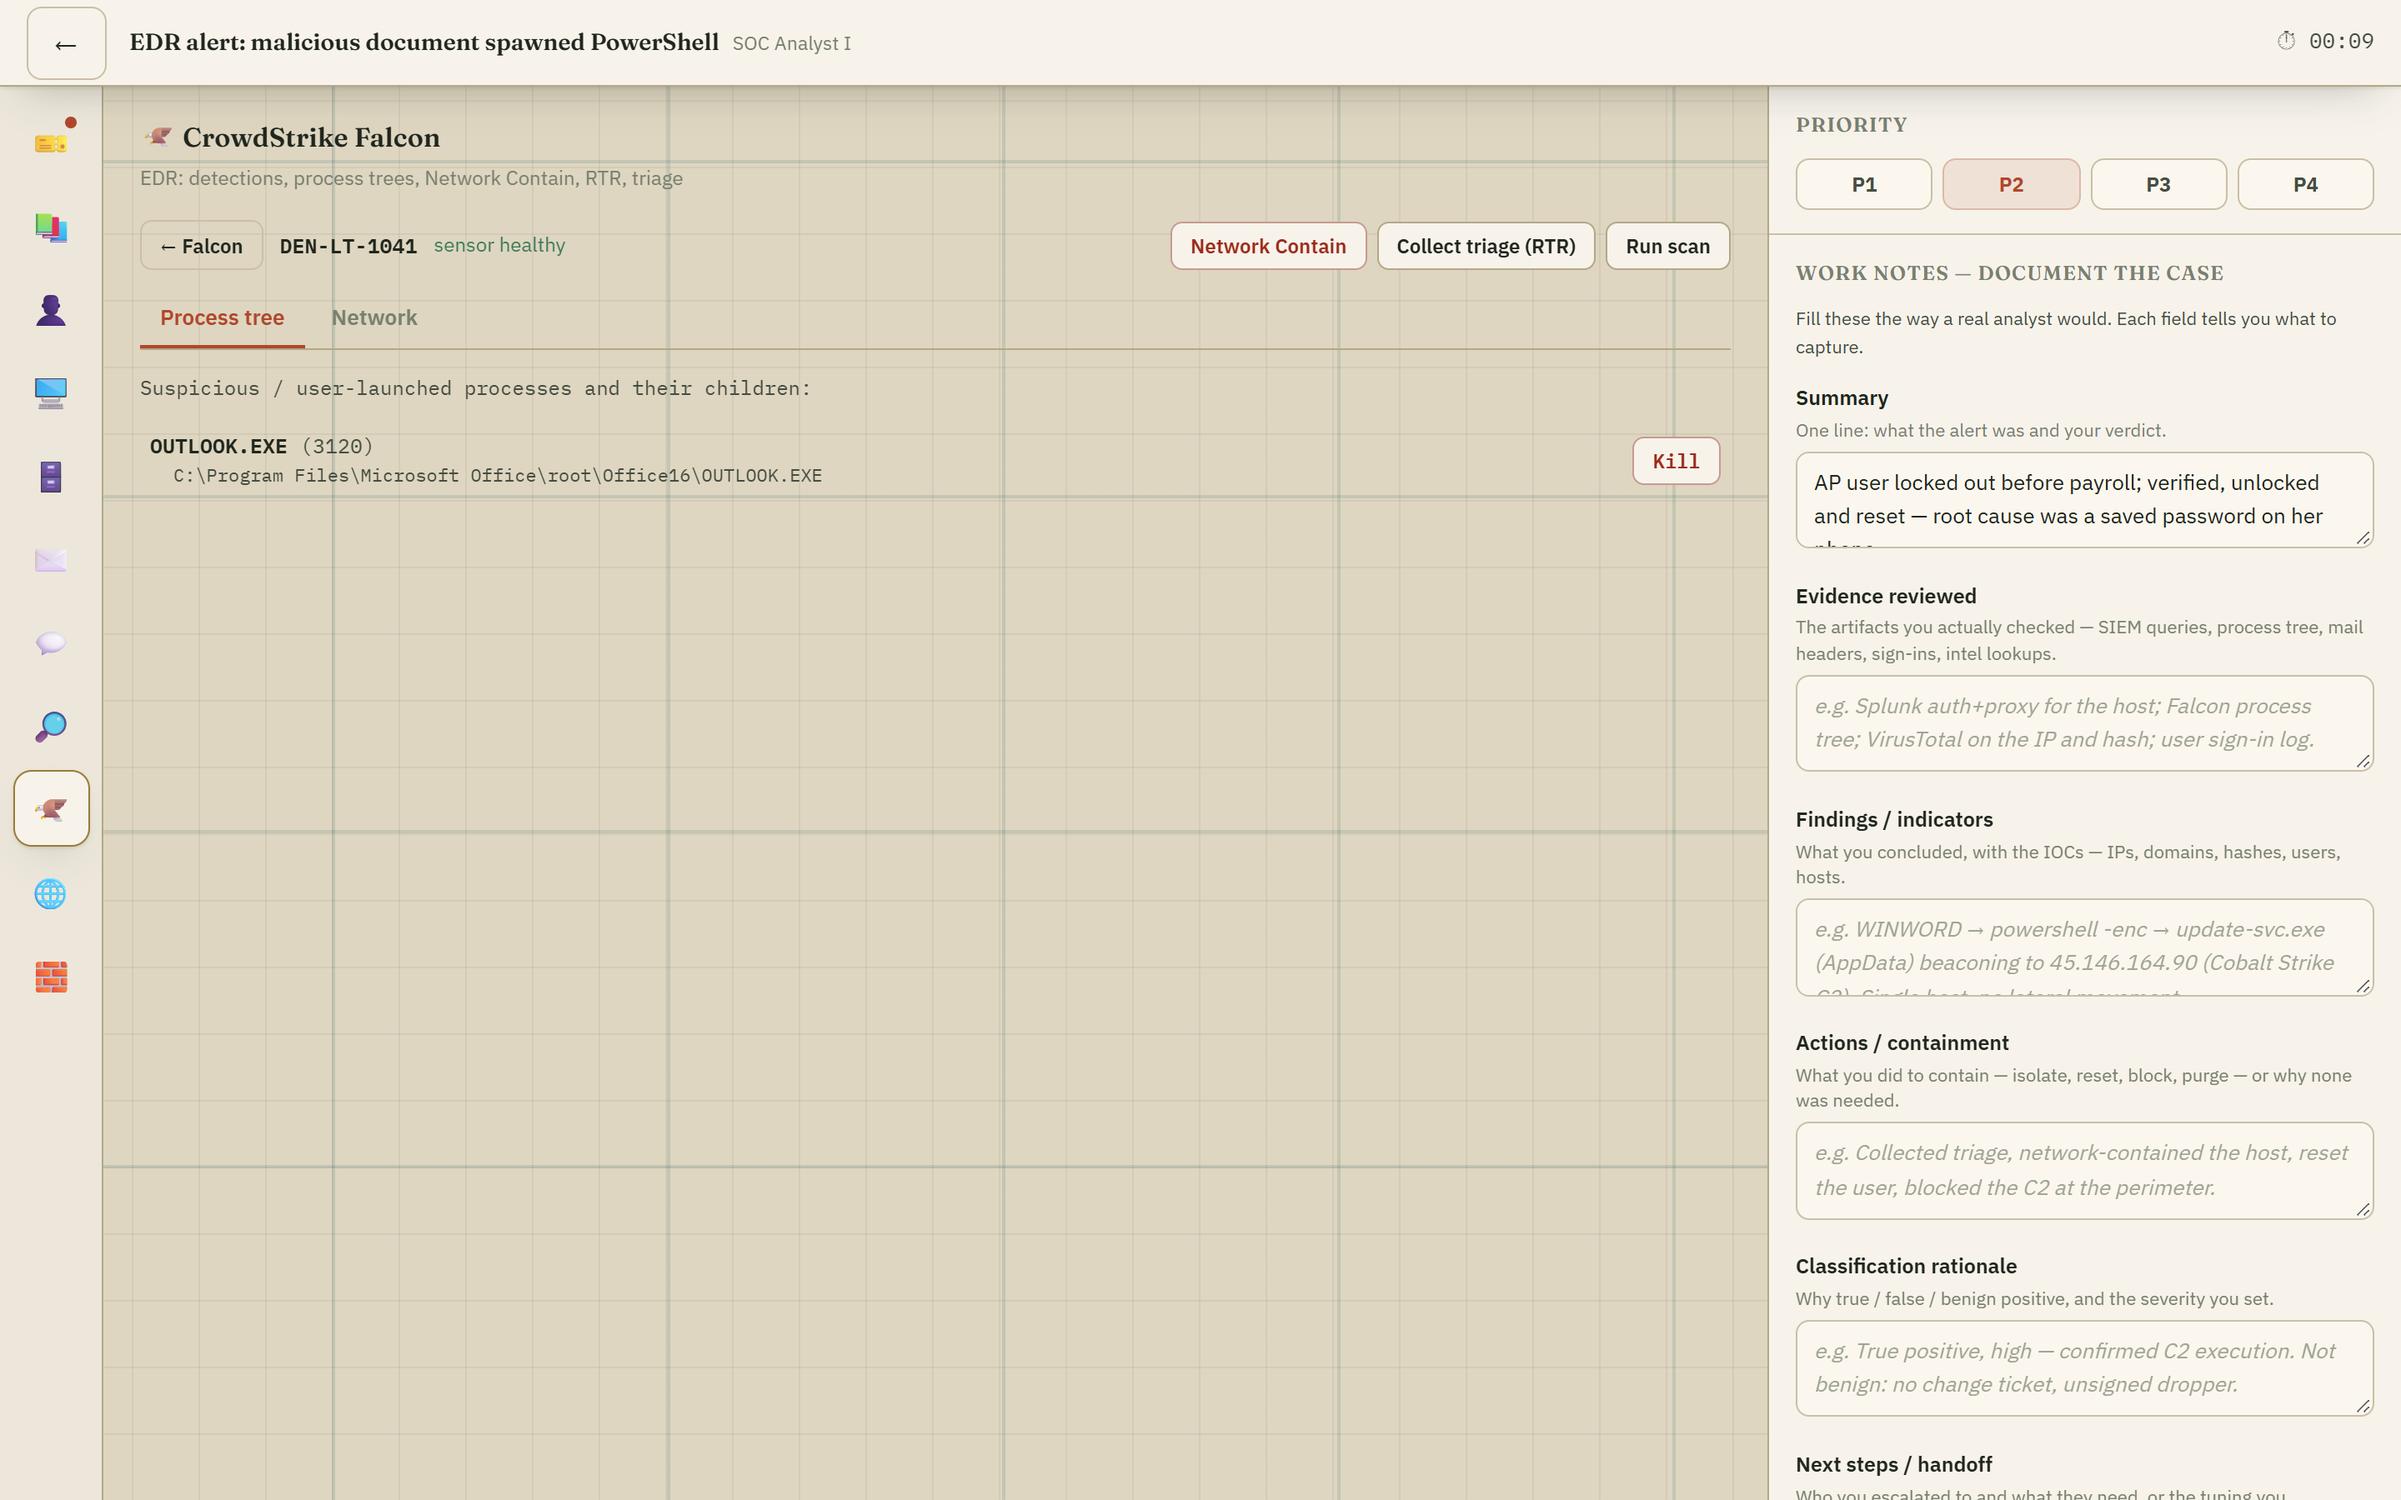
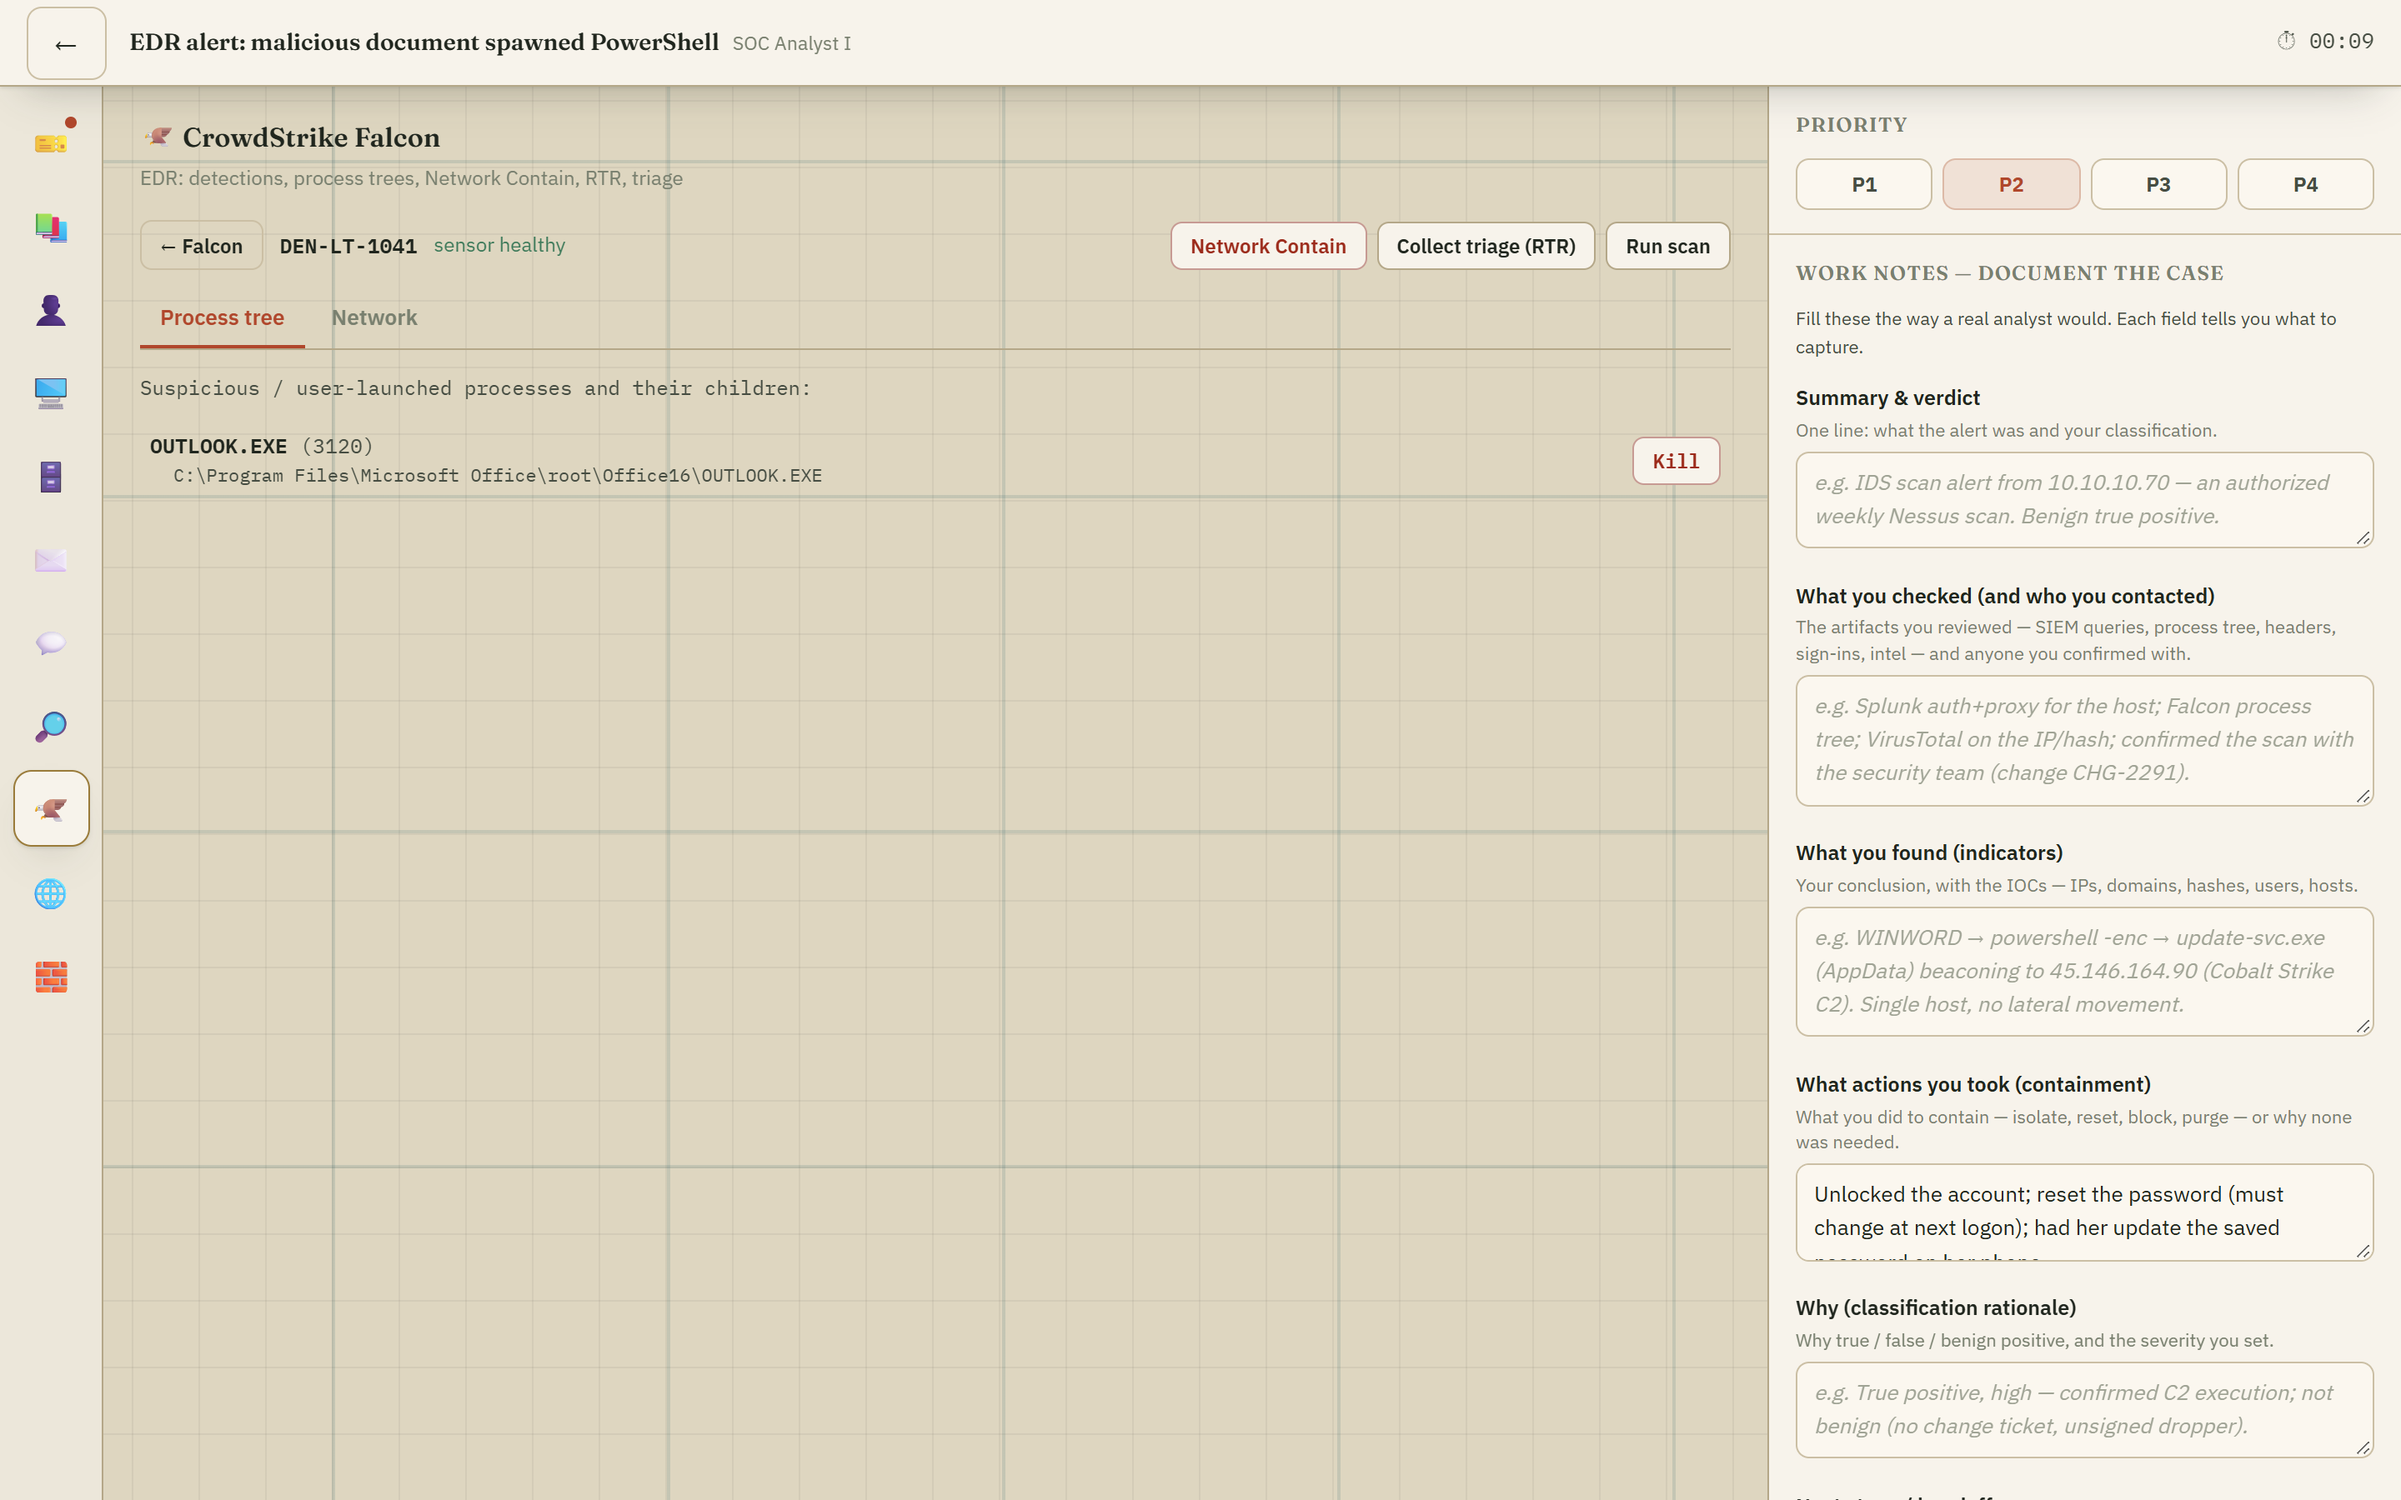
Make documentation sections self-teaching
Rework the guided work-notes fields into plain-language sections whose labels
tell a newcomer what to record: Service Desk now reads "Who you spoke to (and
how you verified them)", "What was discussed / reported", "What you found",
"What actions you took", "Outcome / next steps"; SOC mirrors it with "What you
checked (and who you contacted)", "What you found (indicators)", "What actions
you took (containment)", "Why (classification rationale)". Each keeps a one-line
hint and a concrete example. Grading unchanged (fields combine into the graded
notes). Screenshot regenerated.

Changed region(s): [[0.75, 0.4667, 1.0, 1.0], [0.75, 0.28, 0.9688, 0.4667], [0.7812, 0.2489, 0.8125, 0.28]]

diff --git a/src/ui/docTemplates.ts b/src/ui/docTemplates.ts
@@ -12,20 +12,20 @@ export interface DocField {
 // concatenated (label: value) into the graded work notes, so the same content
 // scores the same — but a newcomer is shown *what* to document and why.
 const SERVICE_DESK: DocField[] = [
-  { key: 'summary', label: 'Summary', help: 'One line: what the user reported and how it ended.', placeholder: 'AP user locked out before payroll; verified, unlocked and reset — root cause was a saved password on her phone.' },
-  { key: 'verification', label: 'Identity verification', help: 'For ANY account change, how you confirmed who you were dealing with — two factors.', placeholder: 'Employee ID E10105 + callback to the number on record.' },
-  { key: 'cause', label: 'Cause / diagnosis', help: 'The real root cause you found, not just the symptom.', placeholder: 'Old password cached in the iPhone mail app kept locking the account.' },
-  { key: 'action', label: 'Action taken', help: 'What you actually did to fix it or move it forward.', placeholder: 'Unlocked account; reset password with must-change; had her update the saved password on her phone.' },
-  { key: 'outcome', label: 'Outcome / next steps', help: 'Resolved, or who it went to and what they need.', placeholder: 'Resolved and confirmed she could log in. No further action.', rows: 2 },
+  { key: 'contact', label: 'Who you spoke to', help: 'Who you contacted and how — and, for any account change, how you verified them (two factors).', placeholder: 'Jenna Morales (Accounts Payable), by phone. Verified: employee ID E10105 + callback to the number on record.', rows: 2 },
+  { key: 'reported', label: 'What was discussed / reported', help: "The problem in the caller's own words, plus the key details you got by asking.", placeholder: 'Locked out right before payroll. The failed logins came from her own laptop and iPhone — not a strange IP.', rows: 2 },
+  { key: 'found', label: 'What you found', help: 'Your diagnosis — the real cause, not just the symptom.', placeholder: 'Old password still saved in her iPhone mail app kept re-locking the account.', rows: 2 },
+  { key: 'actions', label: 'What actions you took', help: 'The steps you actually performed to fix it or move it forward.', placeholder: 'Unlocked the account; reset the password (must change at next logon); had her update the saved password on her phone.', rows: 2 },
+  { key: 'outcome', label: 'Outcome / next steps', help: 'Resolved and confirmed, or who it was escalated to and what they need.', placeholder: 'Resolved; confirmed she could log back in. No further action.', rows: 2 },
 ];
 
 const SOC: DocField[] = [
-  { key: 'summary', label: 'Summary', help: 'One line: what the alert was and your verdict.', placeholder: 'IDS scan alert from 10.10.10.70 — authorized weekly Nessus scan, benign true positive.' },
-  { key: 'evidence', label: 'Evidence reviewed', help: 'The artifacts you actually checked — SIEM queries, process tree, mail headers, sign-ins, intel lookups.', placeholder: 'Splunk auth+proxy for the host; Falcon process tree; VirusTotal on the IP and hash; user sign-in log.' },
-  { key: 'findings', label: 'Findings / indicators', help: 'What you concluded, with the IOCs — IPs, domains, hashes, users, hosts.', placeholder: 'WINWORD → powershell -enc → update-svc.exe (AppData) beaconing to 45.146.164.90 (Cobalt Strike C2). Single host, no lateral movement.' },
-  { key: 'actions', label: 'Actions / containment', help: 'What you did to contain — isolate, reset, block, purge — or why none was needed.', placeholder: 'Collected triage, network-contained the host, reset the user, blocked the C2 at the perimeter.' },
-  { key: 'rationale', label: 'Classification rationale', help: 'Why true / false / benign positive, and the severity you set.', placeholder: 'True positive, high — confirmed C2 execution. Not benign: no change ticket, unsigned dropper.' },
-  { key: 'next', label: 'Next steps / handoff', help: 'Who you escalated to and what they need, or the tuning you requested.', placeholder: 'Escalated to CIRT with the triage package and IOCs; ticket to Desktop to reimage after release.', rows: 2 },
+  { key: 'summary', label: 'Summary & verdict', help: 'One line: what the alert was and your classification.', placeholder: 'IDS scan alert from 10.10.10.70 — an authorized weekly Nessus scan. Benign true positive.', rows: 2 },
+  { key: 'evidence', label: 'What you checked (and who you contacted)', help: 'The artifacts you reviewed — SIEM queries, process tree, headers, sign-ins, intel — and anyone you confirmed with.', placeholder: 'Splunk auth+proxy for the host; Falcon process tree; VirusTotal on the IP/hash; confirmed the scan with the security team (change CHG-2291).', rows: 3 },
+  { key: 'findings', label: 'What you found (indicators)', help: 'Your conclusion, with the IOCs — IPs, domains, hashes, users, hosts.', placeholder: 'WINWORD → powershell -enc → update-svc.exe (AppData) beaconing to 45.146.164.90 (Cobalt Strike C2). Single host, no lateral movement.', rows: 3 },
+  { key: 'actions', label: 'What actions you took (containment)', help: 'What you did to contain — isolate, reset, block, purge — or why none was needed.', placeholder: 'Collected triage, network-contained the host, reset the user, blocked the C2 at the perimeter.', rows: 2 },
+  { key: 'rationale', label: 'Why (classification rationale)', help: 'Why true / false / benign positive, and the severity you set.', placeholder: 'True positive, high — confirmed C2 execution; not benign (no change ticket, unsigned dropper).', rows: 2 },
+  { key: 'next', label: 'Next steps / handoff', help: 'Who you escalated to and what they need, or the tuning you requested.', placeholder: 'Escalated to CIRT with the triage package and IOCs; ticketed Desktop to reimage after release.', rows: 2 },
 ];
 
 export function docTemplate(tier: Tier): DocField[] {
